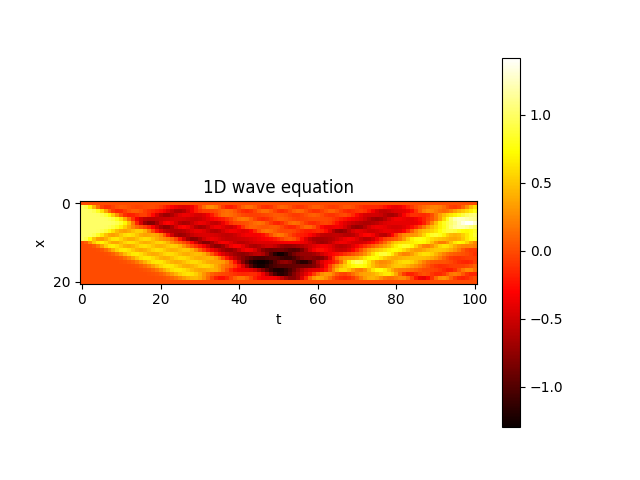
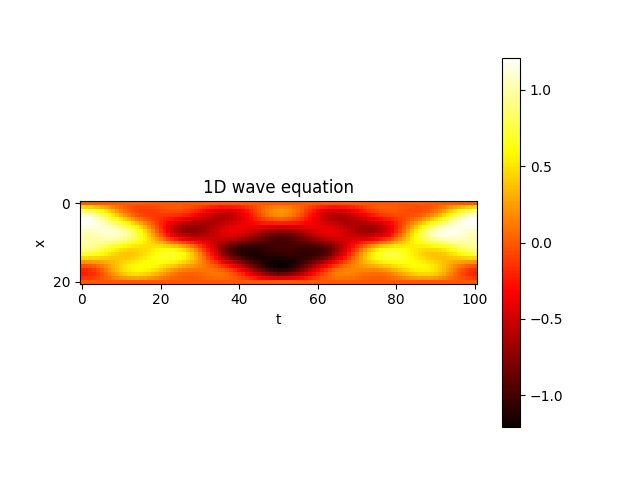
Corrections in Week11

diff --git a/Week11/week11_ex02.py b/Week11/week11_ex02.py
@@ -20,8 +20,9 @@ u = np.empty( (Nx+1,Nt+1), dtype=float )  # all results
 
 # initial condition, t=0, j=0
 # initial shape of the string
-# half of the string is at maximal displacement
-u[:,0] = np.where(x < L/2, 1, 0)
+# combination of three different sinusoids
+u[:,0] = (np.sin(np.pi * x) + (1/2) * np.sin(2 * np.pi * x)
+          + (1/4) * np.sin(4 * np.pi * x))
 
 u[0,0] = 0.0
 u[Nx,0] = 0.0

diff --git a/Week11/week11_ex01.py b/Week11/week11_ex01.py
@@ -16,6 +16,7 @@ assert r < 0.5
 u = np.empty( (Nx+1,Nt+1), dtype=float )  # macierz na wszystkie wyniki
 
 # initial condition, t=0
+u[:,0] = 0.0
 u[8:13,0] = 1.0
 u[18:23,0] = 1.0
 u[28:33,0] = 1.0
